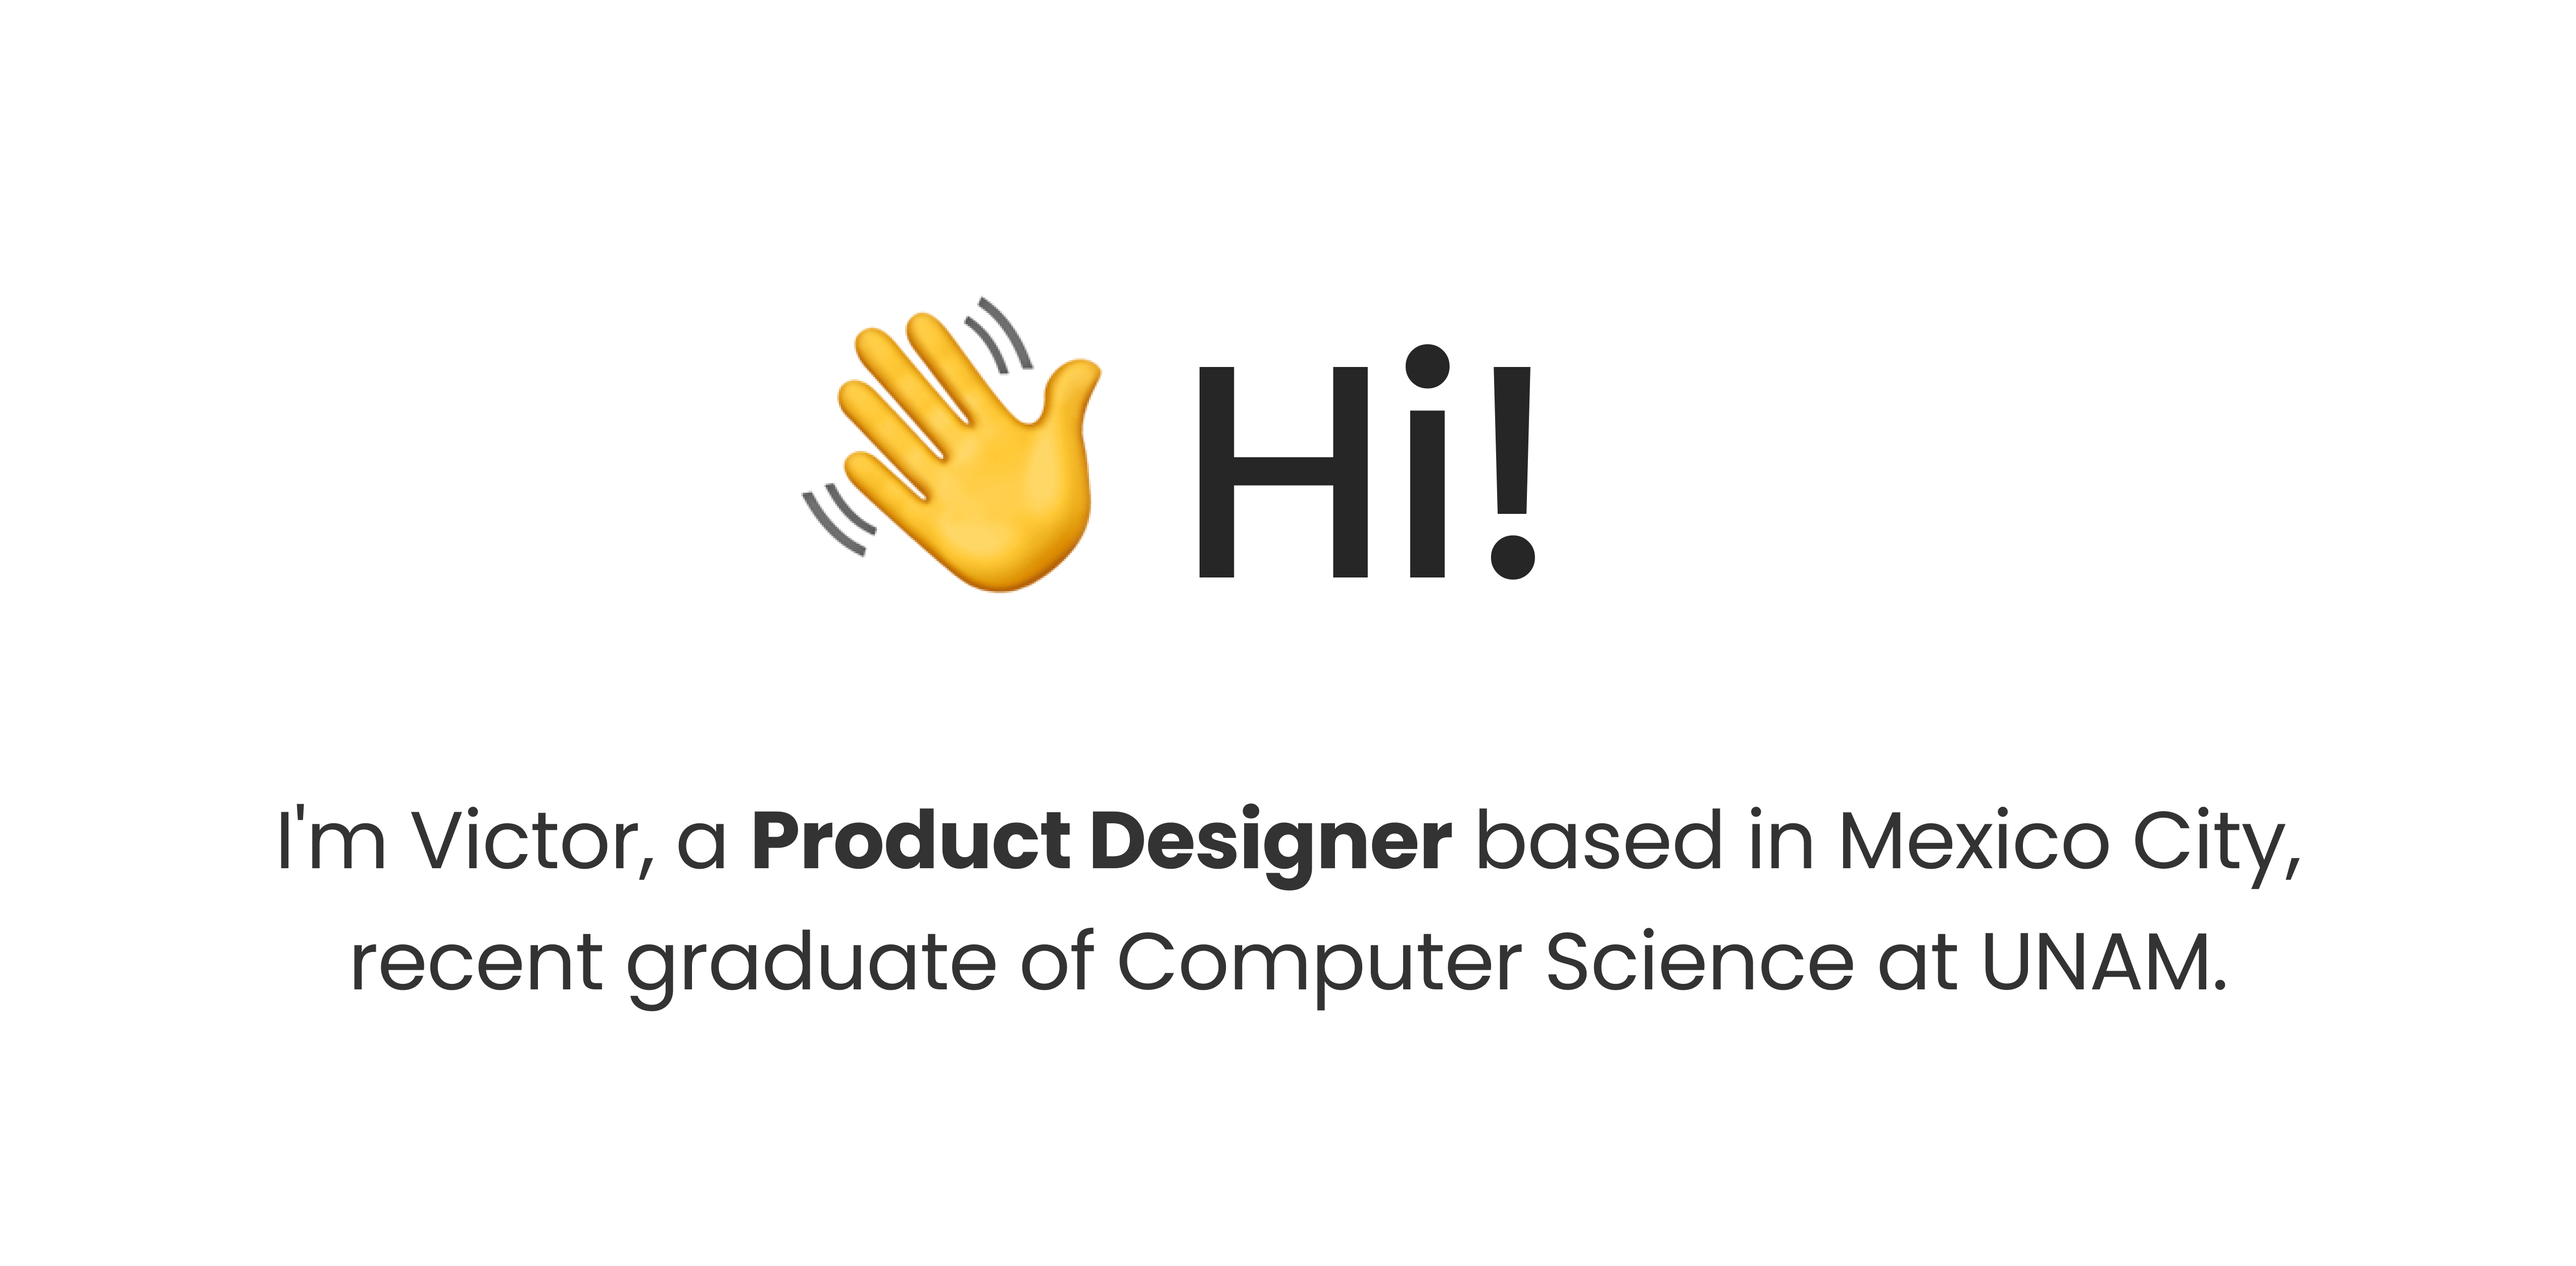
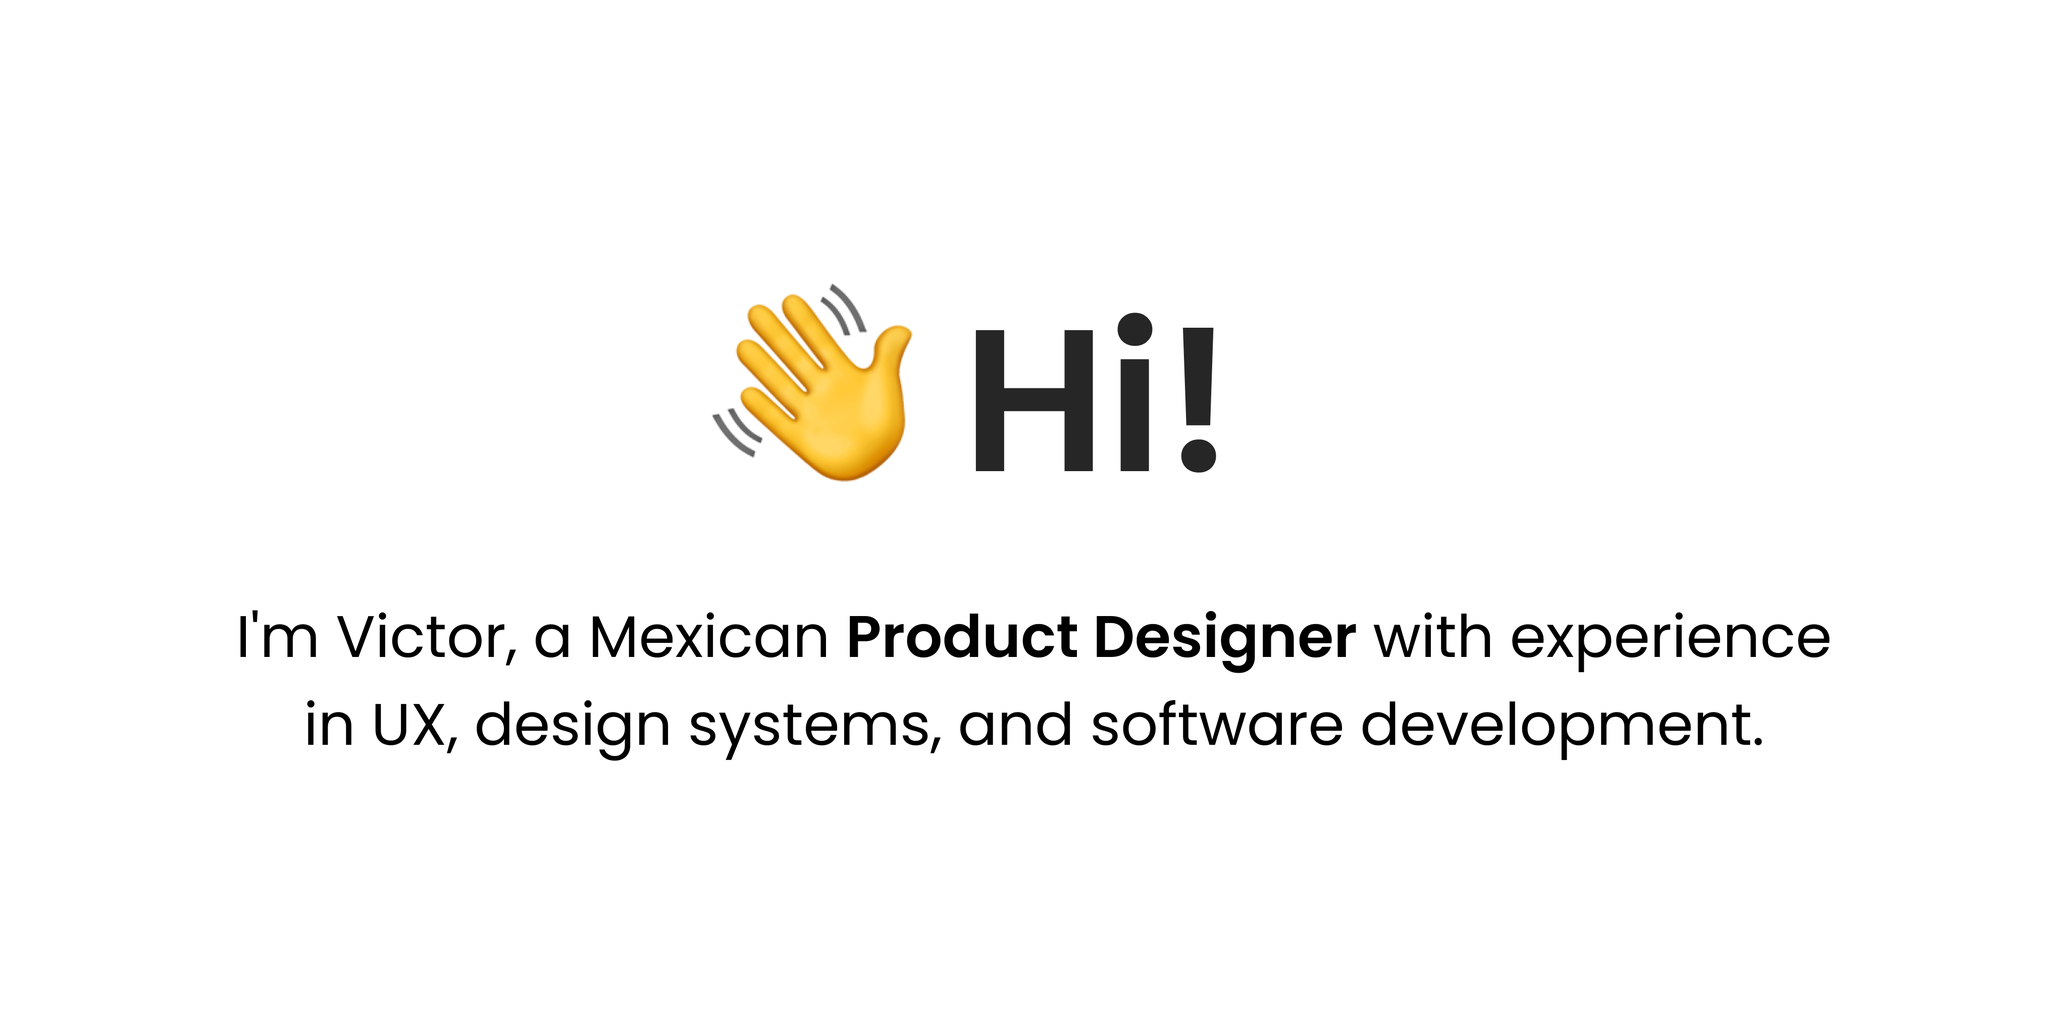
updated intro and about me

Changed region(s): [[0.0938, 0.5849, 0.9062, 0.8004], [0.3125, 0.2463, 0.5938, 0.4926]]

diff --git a/About/index.html b/About/index.html
@@ -7,7 +7,7 @@
 
    <!-- SEO -->
   <title>About | Victor Molina</title>
-  <meta name="description" content="Hi! I'm Victor, a Product Designer based in Mexico City, recent graduate of Computer Science at UNAM."/>
+  <meta name="description" content="Hi! I'm Victor, a Mexican Product Designer with experience in UX, design systems, and software development. "/>
   <meta name=" author" content="Victor Molina" />
   <meta name="robots" content="index,follow" />
   <meta name="keywords"
@@ -15,19 +15,19 @@
 
   <!--  Social -->
   <meta property="og:title" content="Victor Molina" />
-  <meta property="og:description" content="Hi! I'm Victor, a Product Designer based in Mexico City, recent graduate of Computer Science at UNAM." />
+  <meta property="og:description" content="Hi! I'm Victor, a Mexican Product Designer with experience in UX, design systems, and software development. " />
   <meta property="og:image" content="https://victor-molina.com/images/Atom/Images/thumbnail.png" />
   <meta property="og:url" content="https://victor-molina.com" />
   <meta property="og:type" content="website" />
   <meta property="twitter:title”" content="Victor Molina" />
-  <meta property="twitter:description" content="Hi! I'm Victor, a Product Designer based in Mexico City, recent graduate of Computer Science at UNAM." />
+  <meta property="twitter:description" content="Hi! I'm Victor, a Mexican Product Designer with experience in UX, design systems, and software development. " />
   <meta property="twitter:site" content="@victor_molina98" />
   <meta property="twitter:creator" content="@victor_molina98" />
   <meta name="twitter:card" content="summary_large_image">
   <meta name="twitter:site" content="@victor_molina98">
   <meta name="twitter:creator" content="@victor_molina98">
   <meta name="twitter:title" content="Victor Molina">
-  <meta name="twitter:description" content="Hi! I'm Victor, a Product Designer based in Mexico City, recent graduate of Computer Science at UNAM.">
+  <meta name="twitter:description" content="Hi! I'm Victor, a Mexican Product Designer with experience in UX, design systems, and software development. ">
   <meta name="twitter:image" content="https://victor-molina.com/images/Atom/Images/thumbnail.png">
 
   <!--  Icon -->
@@ -79,26 +79,23 @@
         <div class="personal margin-bottom-4">
           <img width="369" height="369" src="../images/Atom/Images/Me.png" alt="My Photo" class="my-photo" />
           <div class="info">
-          <h1 class="title">Hi! I'm Victor</h1>
+          <h1 class="title">👋 Hola!</h1>
           <p class="about-me">
-            I'm a <strong>Product Designer </strong> from Mexico City, who recently graduated with a degree in 
-            <strong>Computer Science</strong> at Universidad Nacional Autónoma de&nbsp;México.
+            I'm a <strong>Product Designer</strong> from Mexico City, graduated from the Universidad Nacional Autónoma de México (UNAM)
+            with a degree in <strong>Computer&nbsp;Science</strong>.
             <br />
             <br />
-            I'm a first-generation college student, and it's the result the result of 
-            the hard work of my family through the years, who belong to a discriminated community in Mexico. My background 
-            and experiences influenced me to decide to study Computer Science, because there I found a way where I can take my 
-            skills and collaborate in the creation of products that can help people all over the world, without judging your 
-            background or who you&nbsp;are.
+            As a first-generation college student pursuing a degree in Computer Science, I studied algorithms, data structures, databases, and software development.
+            However, I often questioned the rationale behind our software design choices, why it looked and functioned in specific ways, and why these approaches were considered "correct".
+            In my last year of college, I took a UX Design class, where I not only found the answers I was seeking but also discovered my real&nbsp;passion.
+            <br />
+            <br />
+            Throughout my career, I've worked on a variety of products, teams, and projects, delving into various areas of study such as UX Design, Design Systems, and Software Development.
             <br>
             <br>
-            As a Computer Science student, I learned about algorithms, data structures, databases, and software development, 
-            but I was always wondering why we build things in some ways. In my last year of college I took a UI Design class, 
-            and in this field I found the answers I was looking&nbsp;for. 
-            <br />
-            <br />
             Currently, Product Designer @<a href="https://alight.com" target="_blank" class="file scnd-button bold"><strong>Alight</strong></a>, previoulsy
-            @<a href="https://www.developforgood.org" target="_blank" class="file scnd-button bold"><strong>Develop For Good</strong></a> and <a href="https://productclassroom.us" target="_blank" class="file scnd-button bold"><strong>Product Classroom</strong></a>.</p>
+            @<a href="https://www.developforgood.org" target="_blank" class="file scnd-button bold"><strong>Develop For Good</strong></a> and <a href="https://productclassroom.us" target="_blank" class="file scnd-button bold"><strong>Product Classroom</strong></a>.
+          </p>
           </div>
         </div>
       </div>

diff --git a/index.html b/index.html
@@ -7,7 +7,7 @@
 
   <!-- SEO -->
   <title>Victor Molina</title>
-  <meta name="description" content="Hi! I'm Victor, a Product Designer based in Mexico City, recent graduate of Computer Science at UNAM."/>
+  <meta name="description" content="Hi! I'm Victor, a Mexican Product Designer with experience in UX, design systems, and software development. "/>
   <meta name=" author" content="Victor Molina" />
   <meta name="robots" content="index,follow" />
   <meta name="keywords"
@@ -15,19 +15,19 @@
 
   <!--  Social -->
   <meta property="og:title" content="Victor Molina" />
-  <meta property="og:description" content="Hi! I'm Victor, a Product Designer based in Mexico City, recent graduate of Computer Science at UNAM." />
+  <meta property="og:description" content="Hi! I'm Victor, a Mexican Product Designer with experience in UX, design systems, and software development. " />
   <meta property="og:image" content="https://victor-molina.com/images/Atom/Images/thumbnail.png" />
   <meta property="og:url" content="https://victor-molina.com" />
   <meta property="og:type" content="website" />
   <meta property="twitter:title”" content="Victor Molina" />
-  <meta property="twitter:description" content="Hi! I'm Victor, a Product Designer based in Mexico City, recent graduate of Computer Science at UNAM." />
+  <meta property="twitter:description" content="Hi! I'm Victor, a Mexican Product Designer with experience in UX, design systems, and software development. " />
   <meta property="twitter:site" content="@victor_molina98" />
   <meta property="twitter:creator" content="@victor_molina98" />
   <meta name="twitter:card" content="summary_large_image">
   <meta name="twitter:site" content="@victor_molina98">
   <meta name="twitter:creator" content="@victor_molina98">
   <meta name="twitter:title" content="Victor Molina">
-  <meta name="twitter:description" content="Hi! I'm Victor, a Product Designer based in Mexico City, recent graduate of Computer Science at UNAM.">
+  <meta name="twitter:description" content="Hi! I'm Victor, a Mexican Product Designer with experience in UX, design systems, and software development. ">
   <meta name="twitter:image" content="https://victor-molina.com/images/Atom/Images/thumbnail.png">
 
   <!--  Icon -->
@@ -88,9 +88,7 @@
             <h1 class="big-text">👋  <span id="typewriter">Hola!</span></h1>
             <div class="subtitle-container">
               <h2 class="medium-text">
-              I'm Victor, a <strong>Product Designer</strong> based in Mexico City,
-              recent&nbsp;graduate of Computer Science at UNAM.
-              </h2>
+              I'm Victor, a Mexican <strong>Product Designer</strong> with experience in UX, design systems, and software development.
               <h4 class="company">Product Designer @  <a href="https://alight.com" target="_blank" class="file scnd-button bold"><strong>Alight</strong></a></h4>
             </div>
           </div>

diff --git a/Mitalla/index.html b/Mitalla/index.html
@@ -7,7 +7,7 @@
       
         <!-- SEO -->
         <title>Mitalla | Victor Molina</title>
-        <meta name="description" content="Hi! I'm Victor, a Product Designer based in Mexico City, recent graduate of Computer Science at UNAM."/>
+        <meta name="description" content="Hi! I'm Victor, a Mexican Product Designer with experience in UX, design systems, and software development. "/>
         <meta name=" author" content="Victor Molina" />
         <meta name="robots" content="index,follow" />
         <meta name="keywords"
@@ -15,19 +15,19 @@
 
         <!--  Social -->
         <meta property="og:title" content="Victor Molina" />
-        <meta property="og:description" content="Hi! I'm Victor, a Product Designer based in Mexico City, recent graduate of Computer Science at UNAM." />
+        <meta property="og:description" content="Hi! I'm Victor, a Mexican Product Designer with experience in UX, design systems, and software development. " />
         <meta property="og:image" content="https://victor-molina.com/images/Atom/Images/thumbnail.png" />
         <meta property="og:url" content="https://victor-molina.com" />
         <meta property="og:type" content="website" />
         <meta property="twitter:title”" content="Victor Molina" />
-        <meta property="twitter:description" content="Hi! I'm Victor, a Product Designer based in Mexico City, recent graduate of Computer Science at UNAM." />
+        <meta property="twitter:description" content="Hi! I'm Victor, a Mexican Product Designer with experience in UX, design systems, and software development. " />
         <meta property="twitter:site" content="@victor_molina98" />
         <meta property="twitter:creator" content="@victor_molina98" />
         <meta name="twitter:card" content="summary_large_image">
         <meta name="twitter:site" content="@victor_molina98">
         <meta name="twitter:creator" content="@victor_molina98">
         <meta name="twitter:title" content="Victor Molina">
-        <meta name="twitter:description" content="Hi! I'm Victor, a Product Designer based in Mexico City, recent graduate of Computer Science at UNAM.">
+        <meta name="twitter:description" content="Hi! I'm Victor, a Mexican Product Designer with experience in UX, design systems, and software development. ">
         <meta name="twitter:image" content="https://victor-molina.com/images/Atom/Images/thumbnail.png">
       
         <!--  Icon -->

diff --git a/DFG/index.html b/DFG/index.html
@@ -7,7 +7,7 @@
       
         <!-- SEO -->
         <title>DFG | Victor Molina</title>
-        <meta name="description" content="Hi! I'm Victor, a Product Designer based in Mexico City, recent graduate of Computer Science at UNAM."/>
+        <meta name="description" content="Hi! I'm Victor, a Mexican Product Designer with experience in UX, design systems, and software development. "/>
         <meta name=" author" content="Victor Molina" />
         <meta name="robots" content="index,follow" />
         <meta name="keywords"
@@ -15,19 +15,19 @@
 
         <!--  Social -->
         <meta property="og:title" content="Victor Molina" />
-        <meta property="og:description" content="Hi! I'm Victor, a Product Designer based in Mexico City, recent graduate of Computer Science at UNAM." />
+        <meta property="og:description" content="Hi! I'm Victor, a Mexican Product Designer with experience in UX, design systems, and software development. " />
         <meta property="og:image" content="https://victor-molina.com/images/Atom/Images/thumbnail.png" />
         <meta property="og:url" content="https://victor-molina.com" />
         <meta property="og:type" content="website" />
         <meta property="twitter:title”" content="Victor Molina" />
-        <meta property="twitter:description" content="Hi! I'm Victor, a Product Designer based in Mexico City, recent graduate of Computer Science at UNAM." />
+        <meta property="twitter:description" content="Hi! I'm Victor, a Mexican Product Designer with experience in UX, design systems, and software development. " />
         <meta property="twitter:site" content="@victor_molina98" />
         <meta property="twitter:creator" content="@victor_molina98" />
         <meta name="twitter:card" content="summary_large_image">
         <meta name="twitter:site" content="@victor_molina98">
         <meta name="twitter:creator" content="@victor_molina98">
         <meta name="twitter:title" content="Victor Molina">
-        <meta name="twitter:description" content="Hi! I'm Victor, a Product Designer based in Mexico City, recent graduate of Computer Science at UNAM.">
+        <meta name="twitter:description" content="Hi! I'm Victor, a Mexican Product Designer with experience in UX, design systems, and software development. ">
         <meta name="twitter:image" content="https://victor-molina.com/images/Atom/Images/thumbnail.png">
       
         <!--  Icon -->

diff --git a/Ubook/index.html b/Ubook/index.html
@@ -7,7 +7,7 @@
       
         <!-- SEO -->
         <title>Ubook | Victor Molina</title>
-        <meta name="description" content="Hi! I'm Victor, a Product Designer based in Mexico City, recent graduate of Computer Science at UNAM."/>
+        <meta name="description" content="Hi! I'm Victor, a Mexican Product Designer with experience in UX, design systems, and software development. "/>
         <meta name=" author" content="Victor Molina" />
         <meta name="robots" content="index,follow" />
         <meta name="keywords"
@@ -15,19 +15,19 @@
 
   <!--  Social -->
         <meta property="og:title" content="Victor Molina" />
-        <meta property="og:description" content="Hi! I'm Victor, a Product Designer based in Mexico City, recent graduate of Computer Science at UNAM." />
+        <meta property="og:description" content="Hi! I'm Victor, a Mexican Product Designer with experience in UX, design systems, and software development. " />
         <meta property="og:image" content="https://victor-molina.com/images/Atom/Images/thumbnail.png" />
         <meta property="og:url" content="https://victor-molina.com" />
         <meta property="og:type" content="website" />
         <meta property="twitter:title”" content="Victor Molina" />
-        <meta property="twitter:description" content="Hi! I'm Victor, a Product Designer based in Mexico City, recent graduate of Computer Science at UNAM." />
+        <meta property="twitter:description" content="Hi! I'm Victor, a Mexican Product Designer with experience in UX, design systems, and software development. " />
         <meta property="twitter:site" content="@victor_molina98" />
         <meta property="twitter:creator" content="@victor_molina98" />
         <meta name="twitter:card" content="summary_large_image">
         <meta name="twitter:site" content="@victor_molina98">
         <meta name="twitter:creator" content="@victor_molina98">
         <meta name="twitter:title" content="Victor Molina">
-        <meta name="twitter:description" content="Hi! I'm Victor, a Product Designer based in Mexico City, recent graduate of Computer Science at UNAM.">
+        <meta name="twitter:description" content="Hi! I'm Victor, a Mexican Product Designer with experience in UX, design systems, and software development. ">
         <meta name="twitter:image" content="https://victor-molina.com/images/Atom/Images/thumbnail.png">
       
         <!--  Icon -->

diff --git a/css/styles.css b/css/styles.css
@@ -1,5 +1,4 @@
 /* 1.250 - Major Third */
-@import url("https://fonts.googleapis.com/css2?family=Montserrat:wght@300;400;500;600&display=swap");
 @import url("https://fonts.googleapis.com/css2?family=Poppins:wght@300;400;500;600&display=swap");
 * {
   padding: 0;

diff --git a/css/_global.scss b/css/_global.scss
@@ -1,4 +1,3 @@
-@import url("https://fonts.googleapis.com/css2?family=Montserrat:wght@300;400;500;600&display=swap");
 @import url("https://fonts.googleapis.com/css2?family=Poppins:wght@300;400;500;600&display=swap");
 
 * {
